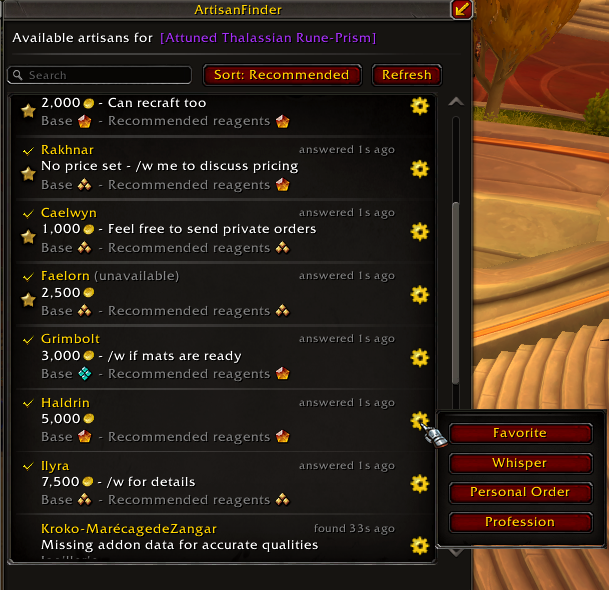
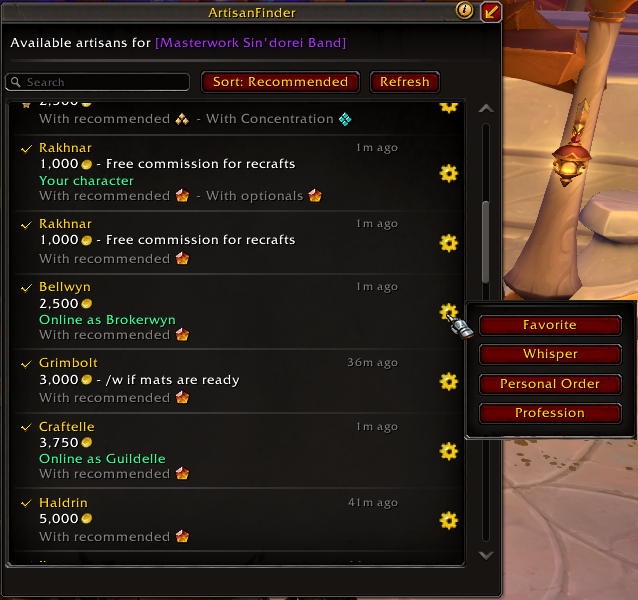
fix: Slow fast scan a little to avoid issues. Refresh images.

diff --git a/CHANGELOG.md b/CHANGELOG.md
@@ -1,25 +1,30 @@
 # ArtisanFinder
 
-## [v1.3.0](https://github.com/clery/ArtisanFinder/releases/tag/v1.3.0) (2026-05-25)
+## [v1.3.0](https://github.com/clery/ArtisanFinder/releases/tag/v1.3.0) (2026-05-26)
 
 [Full Changelog](https://github.com/clery/ArtisanFinder/compare/v1.2.6b...v1.3.0) | [Previous Releases](https://github.com/clery/ArtisanFinder/releases)
 
 ### Added
 
 * Availability can now be cycled between unavailable, current character only, and account-wide.
-* The minimap button now shows availability color, outdated scan warnings, and an Alt-left-click profession advertising menu.
-* Artisans can now Enter-to-save commission fields, and get a new customer preview tooltip.
+* The Professions UI now has a customer preview tooltip.
+* The minimap button now shows availability color, outdated scan warnings, an Alt-left-click profession advertising menu, and Shift-right-click notification clearing.
 * Automatic availability now has per-activity disable options for dungeons, raids, PvP, arenas, and delves.
 * A movable ArtisanFinder button mode is available as an alternative to the minimap-ring button.
-* Addon-enabled personal order notifications now play the shop delivery sound, show a center message, and can mark alt orders on the Blizzard crafting order minimap icon.
+* Addon-enabled personal order notifications now show loot-style toasts with item, customer, character, and commission details.
+* Personal order notification toasts can be positioned, scaled, and stacked from Blizzard Edit Mode.
 * Personal order notification sound and sound channel can now be chosen in Options, with a play-test button.
+* The customer view now has an option to include your current character in results while you are available.
 
 ### Changed
 
-* Reorder of addon options to make the most important ones be at the top.
+* Addon options were reordered to put the most common controls first.
 * The collapsed profession-panel reopen button now sits on the right side of the crafting details panel.
+* Customer result quality text is more compact and no longer includes the base-quality line.
+* Recommended and optional reagent wording is clearer in customer rows and tooltips.
 
 ### Fixed
 
-* Minimap tooltips now hide while dragging the movable button.
+* Save buttons now stay usable while profession scans are running.
+* Outdated scan data is now called out more clearly, including in minimap tooltips.
 * Collapsing the profession ArtisanFinder panel now leaves only a small reopen button.

diff --git a/README.md b/README.md
@@ -11,14 +11,14 @@ ArtisanFinder helps players find available crafters directly from the Crafting O
 *   Favorites, search, sorting, online checks, and personal order helpers.
 *   Personal order notifications for addon-enabled customers and artisans.
 *   Background recipe scanning for supported crafting professions.
-*   Minimap, movable button, and Options -> AddOns controls.
+*   Minimap, movable button, Options -> AddOns, and Blizzard Edit Mode controls.
 *   Localization for English, French, German, Spanish, Russian, and Chinese.
 
 ![Addon features gif](Images/Example.gif)
 
 ## For Customers
 
-When you choose an item in the Crafting Order form, ArtisanFinder shows matching artisans who can help with that craft. Results can include commission, note, quality, recommended reagents, AFK state, guild source, trade-chat leads, and actions for whispering or preparing an order.
+When you choose an item in the Crafting Order form, ArtisanFinder shows matching artisans who can help with that craft. Results can include commission, note, quality with recommended or optional reagents, AFK state, guild source, trade-chat leads, and actions for whispering or preparing an order.
 
 ArtisanFinder does not place orders for you. It only helps fill or open the right information so you can review everything before submitting an order yourself.
 
@@ -30,7 +30,7 @@ ArtisanFinder adds lightweight controls to the Professions UI for item-specific 
 
 Availability is session-based and resets after login or reload. You can cycle between unavailable, current-character availability, and account-wide availability from the minimap button, or let automatic availability enable it in trade-chat areas and disable it in selected instance types.
 
-If an addon-enabled customer places a personal order for one of your characters while you are on another character, ArtisanFinder can play your selected notification sound and show a loot-style notification with the item, customer, character, and commission. The toast position, scale, and stack direction can be adjusted from Blizzard Edit Mode. The Blizzard crafting order minimap icon can also show known alt orders.
+If an addon-enabled customer places a personal order for one of your characters while you are on another character, ArtisanFinder can play your selected notification sound and show a loot-style notification with the item, customer, character, and commission. Notifications are remembered until cleared or completed, and the Blizzard crafting order minimap icon can also show known alt orders.
 
 ![ArtisanFinder crafter view](Images/CrafterView.png)
 
@@ -50,7 +50,7 @@ An item-specific commission takes priority over a profession default. If an item
 
 ## Options
 
-ArtisanFinder has an Options -> AddOns panel ordered around common controls first: minimap/button behavior, availability, trade-chat leads, order notification sound/channel, result sorting, cache behavior, scanning, and advertised character professions. Blizzard Edit Mode controls the order notification toast placement and movable ArtisanFinder button placement.
+ArtisanFinder has an Options -> AddOns panel ordered around common controls first: minimap/button behavior, availability, trade-chat leads, order notifications, result sorting, cache behavior, scanning, and advertised character professions. Blizzard Edit Mode controls the order notification toast and movable ArtisanFinder button placement.
 
 ![ArtisanFinder options](Images/Options1.png)
 ![ArtisanFinder options](Images/Options2.png)
@@ -68,8 +68,6 @@ ArtisanFinder includes localization support for English, French, German, Spanish
 *   `/af auto off`: disables automatic availability.
 *   `/af auto toggle`: toggles the auto availability mode.
 *   `/af clear`: show clear data commands.
-*   `/af debug orders`: show personal order notification debug state.
-*   `/af dev notify`, `/af dev orders`, `/af dev sound order`: test order notification behavior while developer helpers are enabled.
 
 ## Inspiration
 